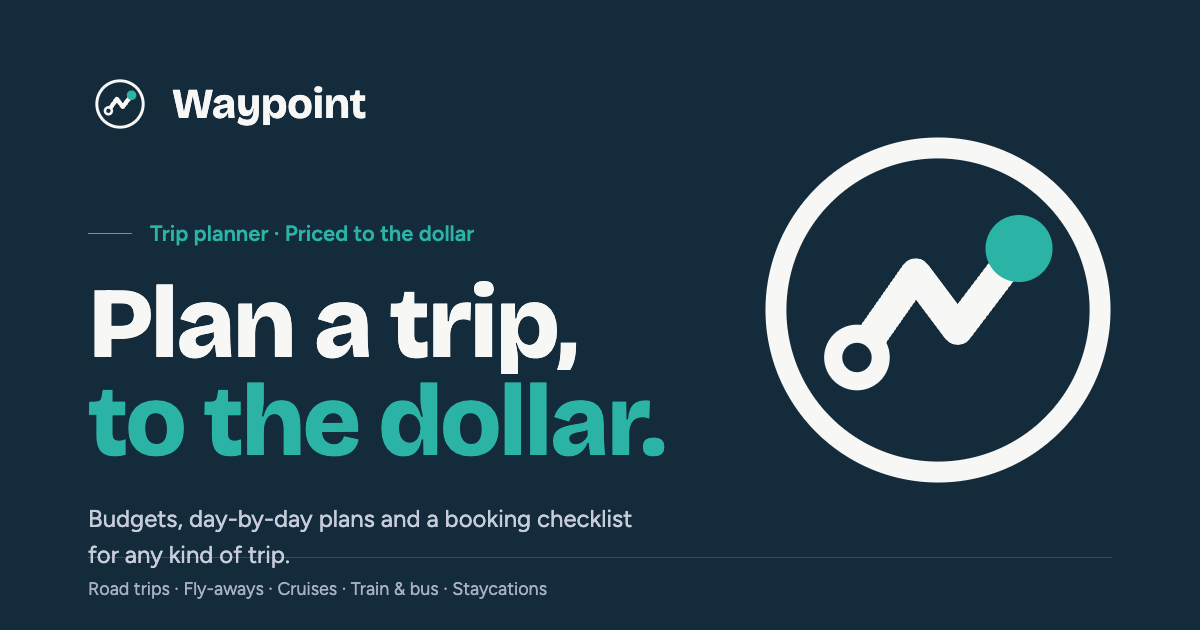
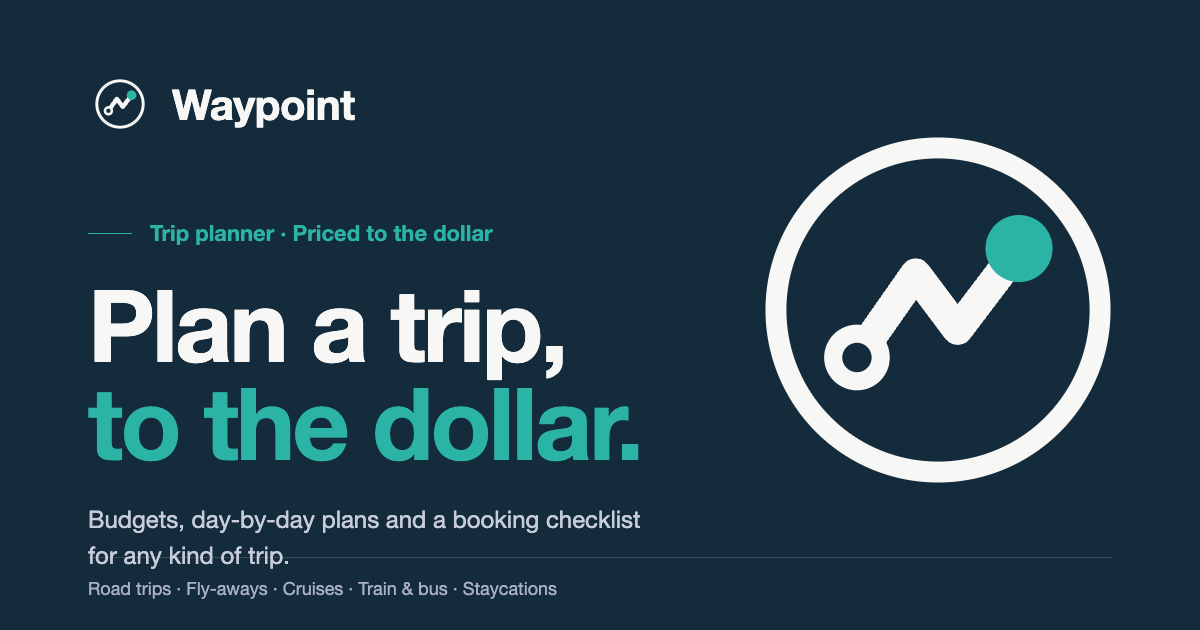
System font (no web fonts) and real-product tiles: dark budget tile, itinerary with route art, booking checklist (#79)
- Fonts: -apple-system stack, semibold headlines; Figtree/Bricolage removed (nothing to download)
- Plan page: mint hero, gallery, then three tiles drawn from the trip on screen
- Route art dot is teal; orange is gone
- Axe 0 findings; CLS 0.001; LCP 0.19s desktop, 0.68s throttled phone

diff --git a/src/components/app/plan/ProductTiles.tsx b/src/components/app/plan/ProductTiles.tsx
@@ -1,0 +1,129 @@
+import { Link } from "@tanstack/react-router";
+import { useMemo } from "react";
+
+import { CATEGORY_COLOR_VAR } from "@/components/app/bits";
+import { RouteMap } from "@/components/app/Illustrations";
+import { bookingPlan } from "@/lib/booking";
+import { CATEGORY_LABELS, categoriesFor, formatMoney } from "@/lib/budget";
+import { clock, scheduleDay } from "@/lib/itinerary-schedule";
+import { useTrip } from "@/lib/trip-store";
+
+/**
+ * Three tiles that show the product itself: the budget, a day of the plan and the booking
+ * checklist, drawn from the trip on screen (the sample until the traveler plans their own).
+ * Nothing here is invented: every number and name is what the app computed for this trip.
+ */
+export function ProductTiles() {
+  const { trip, dest, shape, totals } = useTrip();
+  const cats = categoriesFor(trip.setup.tripType, trip.inputs.transportMode)
+    .map((c) => ({ c, v: totals.categories[c] }))
+    .filter((x) => x.v > 0)
+    .sort((a, b) => b.v - a.v);
+  const sum = cats.reduce((s, x) => s + x.v, 0) || 1;
+  const day = trip.itinerary?.days[0];
+  const stops = useMemo(() => (day ? scheduleDay(day.items).slice(0, 3) : []), [day]);
+  const items = useMemo(
+    () => bookingPlan(trip, dest, shape, totals, "", []).slice(0, 3),
+    [trip, dest, shape, totals],
+  );
+  const label = trip.isSample ? "Sample trip" : "Your trip";
+
+  return (
+    <section className="py-16 sm:py-24" aria-labelledby="tiles-title">
+      <div className="page-container">
+        <h2 id="tiles-title" className="title-display text-center text-large-title">
+          {label}: {dest.name}
+        </h2>
+        <div className="mt-12 grid gap-4 md:grid-cols-5">
+          {/* The budget: the dark tile. */}
+          <Link
+            to="/budget"
+            className="group pressable rounded-3xl bg-ink p-8 text-ink-foreground md:col-span-3"
+          >
+            <p className="text-footnote opacity-80">Budget</p>
+            <p className="title-display mt-6 text-display">
+              {totals.overBudget ? "−" : ""}
+              {formatMoney(Math.abs(totals.remaining))}
+            </p>
+            <p className="mt-2 text-headline font-normal opacity-90">
+              {totals.overBudget ? "over your spending money" : "left to spend"}
+            </p>
+            <p className="mt-1 text-footnote opacity-70">
+              {formatMoney(totals.planned)} planned of {formatMoney(totals.spendable)} · emergency
+              fund of {formatMoney(totals.emergencyFund)} kept aside
+            </p>
+            <div className="mt-8 flex h-3 overflow-hidden rounded-full bg-white/15">
+              {cats.map((x) => (
+                <span
+                  key={x.c}
+                  title={`${CATEGORY_LABELS[x.c]} ${formatMoney(x.v)}`}
+                  style={{ width: `${(x.v / sum) * 100}%`, background: CATEGORY_COLOR_VAR[x.c] }}
+                />
+              ))}
+            </div>
+            <ul className="mt-6 grid gap-x-8 gap-y-2 sm:grid-cols-2">
+              {cats.slice(0, 4).map((x) => (
+                <li key={x.c} className="flex items-center gap-2 text-footnote">
+                  <span
+                    aria-hidden
+                    className="size-2 rounded-full"
+                    style={{ background: CATEGORY_COLOR_VAR[x.c] }}
+                  />
+                  <span className="flex-1 opacity-90">{CATEGORY_LABELS[x.c]}</span>
+                  <span className="tabular">{formatMoney(x.v)}</span>
+                </li>
+              ))}
+            </ul>
+            <span className="link-chevron mt-8 inline-block text-footnote !text-ink-foreground">
+              Open the budget
+            </span>
+          </Link>
+
+          {/* A day of the plan, with the route drawn behind it. */}
+          <Link
+            to="/itinerary"
+            className="group pressable relative overflow-hidden rounded-3xl bg-card p-8 md:col-span-2"
+          >
+            <RouteMap className="pointer-events-none absolute top-0 right-0 w-72 opacity-80" />
+            <div className="relative mt-44">
+              <p className="text-footnote text-muted-foreground">Itinerary</p>
+              <p className="title-display mt-2 text-title-1">
+                {day ? `Day 1: ${day.title}` : "Day by day"}
+              </p>
+              <ol className="mt-4 divide-y divide-separator">
+                {stops.map((s) => (
+                  <li key={s.item.id} className="py-2">
+                    <p className="tabular text-caption text-muted-foreground">
+                      {clock(s.start)} to {clock(s.end)}
+                    </p>
+                    <p className="text-footnote font-semibold">{s.item.name}</p>
+                  </li>
+                ))}
+              </ol>
+              <span className="link-chevron mt-4 inline-block text-footnote">
+                Open the itinerary
+              </span>
+            </div>
+          </Link>
+
+          {/* What to book. */}
+          <Link to="/book" className="group pressable rounded-3xl bg-secondary p-8 md:col-span-5">
+            <p className="text-footnote text-muted-foreground">Booking checklist</p>
+            <p className="title-display mt-2 text-title-1">What to book, in order</p>
+            <ul className="mt-6 grid gap-6 sm:grid-cols-3">
+              {items.map((i) => (
+                <li key={i.key} className="border-t border-separator pt-4">
+                  <p className="text-headline font-semibold">{i.title}</p>
+                  <p className="mt-1 text-footnote text-muted-foreground">
+                    {i.budget > 0 ? `${formatMoney(i.budget)} budgeted` : "Not in the budget"}
+                  </p>
+                </li>
+              ))}
+            </ul>
+            <span className="link-chevron mt-6 inline-block text-footnote">Open the checklist</span>
+          </Link>
+        </div>
+      </div>
+    </section>
+  );
+}

diff --git a/src/styles.css b/src/styles.css
@@ -1,34 +1,15 @@
 @import "tailwindcss" source(none);
 @source "../src";
 @import "tw-animate-css";
-/* Two self-hosted faces (OFL): Figtree for text, Bricolage Grotesque for headlines. */
-@import "@fontsource-variable/figtree";
-@import "@fontsource-variable/bricolage-grotesque";
-
-/* Fallbacks sized to the web fonts' measured widths, so the swap never reflows the headline. */
-@font-face {
-  font-family: "Figtree Fallback";
-  font-style: normal;
-  font-weight: 100 900;
-  src: local("Arial");
-  size-adjust: 104%;
-}
-@font-face {
-  font-family: "Bricolage Fallback";
-  font-style: normal;
-  font-weight: 100 900;
-  src: local("Arial");
-  size-adjust: 100%;
-}
+/* No web fonts: the system face (San Francisco on Apple devices, Segoe UI on Windows, Roboto on Android). */
 
 @custom-variant dark (&:where(.dark, .dark *));
 
 /*
  * Waypoint design system: the ARG Core editorial language, with apple.com's craft.
- * - Type: Bricolage Grotesque for headlines, Figtree for everything else. Regular body at 16px or more, sentence-case labels.
+ * - Type: the system face, as apple.com does (San Francisco on Apple devices). Semibold headlines, regular body at 16px or more, sentence-case labels.
  * - Color: deep navy #142B3B (text, dark surfaces), ocean teal #0F766E (primary actions, links), warm
- *   ivory #F7F7F5 canvas with white surfaces, soft mint #EEF4F2 support fills, coral #E87952 only in
- *   route art; sage for success and confirmed states.
+ *   ivory #F7F7F5 canvas with white surfaces, soft mint #EEF4F2 support fills, the route art in teal; sage for success and confirmed states.
  * - Shape: sharp 4px surfaces, pill buttons, 8px fields.
  * - Motion: exponential ease-out, one authored moment per screen, springs for direct manipulation.
  * - Space: an 8px grid. All colors are oklch tokens; components use semantic classes only.
@@ -36,10 +17,11 @@
 
 @theme inline {
   --font-sans:
-    "Figtree Variable", "Figtree", "Figtree Fallback", ui-sans-serif, system-ui, sans-serif;
+    -apple-system, BlinkMacSystemFont, "SF Pro Text", "Segoe UI", "Helvetica Neue", Roboto, Arial,
+    sans-serif;
   --font-display:
-    "Bricolage Grotesque Variable", "Bricolage Grotesque", "Bricolage Fallback", ui-sans-serif,
-    system-ui, sans-serif;
+    -apple-system, BlinkMacSystemFont, "SF Pro Display", "Segoe UI Variable Display", "Segoe UI",
+    "Helvetica Neue", Roboto, Arial, sans-serif;
   --font-mono: ui-monospace, "SF Mono", Menlo, monospace;
 
   /*
@@ -49,23 +31,23 @@
   --text-stat: clamp(1.75rem, 1rem + 2vw, 2.75rem);
   --text-stat--line-height: 1.05;
   --text-stat--letter-spacing: -0.03em;
-  --text-stat--font-weight: 650;
+  --text-stat--font-weight: 600;
   --text-display: clamp(2.75rem, 1.6rem + 5vw, 5.25rem);
   --text-display--line-height: 1.04;
   --text-display--letter-spacing: -0.035em;
-  --text-display--font-weight: 650;
+  --text-display--font-weight: 600;
   --text-large-title: clamp(1.875rem, 1.3rem + 2.2vw, 2.75rem);
   --text-large-title--line-height: 1.1;
   --text-large-title--letter-spacing: -0.024em;
-  --text-large-title--font-weight: 700;
+  --text-large-title--font-weight: 600;
   --text-title-1: 1.75rem;
   --text-title-1--line-height: 1.12;
   --text-title-1--letter-spacing: -0.016em;
-  --text-title-1--font-weight: 650;
+  --text-title-1--font-weight: 600;
   --text-title-2: 1.25rem;
   --text-title-2--line-height: 1.18;
   --text-title-2--letter-spacing: -0.012em;
-  --text-title-2--font-weight: 650;
+  --text-title-2--font-weight: 600;
   --text-headline: 1.0625rem;
   --text-headline--line-height: 1.3;
   --text-headline--letter-spacing: -0.012em;
@@ -377,7 +359,7 @@
   --input: rgb(20 43 59 / 0.38);
   --ring: #0f766e;
   /* Brand coral (#FF6B4A): the logo's destination dot. Used sparingly for "you are here / next" cues. */
-  --brand-coral: #e87952;
+  --brand-coral: #2bb3a5;
   /* Coral as small text (step numbers): darker so it reads at AA contrast on paper. */
   --coral-text: #b4472a;
   /* Solid emphasis surface (primary call to action, the balance card). */
@@ -489,7 +471,7 @@
   --separator: rgb(241 244 243 / 0.11);
   --input: rgb(241 244 243 / 0.32);
   --ring: #5fcfc2;
-  --brand-coral: #e87952;
+  --brand-coral: #2bb3a5;
   --coral-text: #f0a58c;
   --ink: #f1f4f3;
   --ink-foreground: #0e1f2b;
@@ -679,11 +661,11 @@
   }
 }
 
-/* Titles: Bricolage Grotesque, tightened as it grows. <em> is plain: no colored last word. */
+/* Titles: the system face, semibold, tightened as it grows. <em> is plain: no colored last word. */
 @utility title-display {
   font-family: var(--font-display);
-  --tw-font-weight: 650;
-  font-weight: 650;
+  --tw-font-weight: 600;
+  font-weight: 600;
   letter-spacing: -0.028em;
   text-wrap: balance;
   & em {
@@ -692,7 +674,7 @@
   }
 }
 
-/* Amounts that matter: bold Figtree with tabular figures. */
+/* Amounts that matter: bold with tabular figures. */
 @utility money-display {
   font-family: var(--font-sans);
   font-weight: 700;

diff --git a/src/routes/__root.tsx b/src/routes/__root.tsx
@@ -11,8 +11,6 @@ import {
 import type { ReactNode } from "react";
 
 import appCss from "../styles.css?url";
-import figtree from "@fontsource-variable/figtree/files/figtree-latin-wght-normal.woff2?url";
-import bricolage from "@fontsource-variable/bricolage-grotesque/files/bricolage-grotesque-latin-wght-normal.woff2?url";
 import { AppShell } from "@/components/app/AppShell";
 import { Button } from "@/components/ui/button";
 import { Toaster } from "@/components/ui/sonner";
@@ -129,14 +127,6 @@ export const Route = createRootRouteWithContext<{ queryClient: QueryClient }>()(
       { rel: "icon", href: "/favicon.svg", type: "image/svg+xml" },
       { rel: "apple-touch-icon", href: "/apple-touch-icon.png" },
       { rel: "manifest", href: "/site.webmanifest" },
-      // The one face, fetched early so the headline never swaps late.
-      ...[figtree, bricolage].map((href) => ({
-        rel: "preload",
-        href,
-        as: "font",
-        type: "font/woff2",
-        crossOrigin: "anonymous" as const,
-      })),
       // Photos and their lookups come from Wikipedia and Wikimedia: open those connections early.
       { rel: "preconnect", href: "https://en.wikipedia.org", crossOrigin: "anonymous" },
       { rel: "preconnect", href: "https://thumb.wikimedia.org" },

diff --git a/src/test/design-system.test.ts b/src/test/design-system.test.ts
@@ -196,14 +196,12 @@ describe("no template tells", () => {
     expect(find(/<img\b/g, (p) => p.endsWith("Photo.tsx"))).toEqual([]);
   });
 
-  it("sets headlines in Bricolage Grotesque and text in Figtree, self-hosted, with no serif or mono labels", () => {
+  it("uses the system face, with no web fonts to download, no serif and no mono labels", () => {
     const css = readFileSync(join(SRC, "styles.css"), "utf8");
     const stack = (name: string) => css.match(new RegExp(`--font-${name}:([^;]+);`))?.[1] ?? "";
-    expect(stack("sans")).toMatch(/^\s*"Figtree Variable"/);
-    expect(stack("display")).toMatch(/^\s*"Bricolage Grotesque Variable"/);
-    expect(css).toContain("@fontsource-variable/figtree");
-    expect(css).toContain("@fontsource-variable/bricolage-grotesque");
-    expect(css).not.toMatch(/fraunces|jetbrains|inter variable/i);
+    expect(stack("sans")).toMatch(/^\s*-apple-system/);
+    expect(stack("display")).toMatch(/^\s*-apple-system/);
+    expect(css).not.toMatch(/@fontsource|fraunces|jetbrains|inter variable|figtree|bricolage/i);
     // Small labels are plain sentence case: no uppercase, tracked-out caps.
     expect(css.match(/@utility label-mono \{[^}]*\}/)?.[0] ?? "").not.toMatch(/uppercase/);
   });

diff --git a/src/routes/index.tsx b/src/routes/index.tsx
@@ -11,6 +11,7 @@ import { CoveragePicker } from "@/components/app/plan/CoveragePicker";
 import { OriginField } from "@/components/app/plan/OriginField";
 import { StylePicker } from "@/components/app/plan/StylePicker";
 import { Inspiration } from "@/components/app/plan/Inspiration";
+import { ProductTiles } from "@/components/app/plan/ProductTiles";
 import { Faq } from "@/components/app/landing";
 import { StopsPicker } from "@/components/app/plan/StopsPicker";
 import { formatDateRange } from "@/components/app/TripHeader";
@@ -358,7 +359,7 @@ function Welcome() {
         </div>
       )}
       {/* The hero, after apple.com: one big line, one short sentence, the planner, then the places. */}
-      <section>
+      <section className="bg-secondary">
         <div className="page-container pt-12 pb-16 text-center sm:pt-20 sm:pb-24 max-sm:min-h-[calc(100dvh-9rem)]">
           <h1 className="title-display mx-auto max-w-4xl text-display">
             Plan a trip around your budget
@@ -398,6 +399,8 @@ function Welcome() {
           />
         </div>
       </section>
+
+      <ProductTiles />
 
       <div className="page-container py-16 sm:py-24">
         <div className="layout-main-aside lg:gap-y-8">

diff --git a/AGENTS.md b/AGENTS.md
@@ -72,6 +72,7 @@
 - **Partners and commissions (groundwork only)**: `src/lib/partners/config.ts` decorates outbound booking links (`outboundLink`) only for a partner listed in the `VITE_AFFILIATE_PARTNERS` build value (unset today, so every link is plain and the Book page says Waypoint earns nothing). No IDs, parameter names or partners are baked in; values are validated; only https links to a matching host are tagged, with `rel="sponsored"`. `affiliateDisclosure()` is the one source of the page's wording. `src/lib/partners/commission.ts` is bookkeeping with one rule: money is earned only when a partner reported the transaction (has its own reference) and approved or paid it; estimates and booking value never count. Not built, and each needs an approved partner first: click tracking (needs consent and the partner's terms), a commissions table and importer, reports. Do not add revenue claims to the UI.
 - **One-day edits** (itinerary, signed-in travelers; AI): `planWithAi(text, { dayIndex })` asks for the whole plan with "Change only Day N" but lands only that day through `tripActions.setDayFor` (`replaceDay` in `itinerary-edit.ts`: every other day stays the same object, the traveler's own stops on that day are kept once with fresh ids), with a toast showing the day's per-person cost before and after and an Undo (`restoreDay`). A request that names exactly one day ("make day 2 cheaper", `parseDayNumber`) typed in Refine goes the same way; several days or none go to the whole plan. Trips over 14 days (`SINGLE_REQUEST_DAYS`) don't support day edits yet. New suggestions stay unverified; the UI says so. The AI path itself is untested against the live model (needs a signed-in session and the Gemini key).
 - **What saved preferences really do (audit 2026-11-11)**: home city and home airport drive the start city, live price searches and booking links; travel style, usual group size and interests are applied to the untouched sample trip for signed-in travelers (`personalizeSample(home, prefs)`, via `usePersonalizedSample`), so new plans start from them; memberships now appear as "perks you may have" reminders on the Booking checklist (`src/lib/perks.ts`: general, hedged tips that say to check and compare; no savings are computed, no card numbers are ever stored; a test requires a rule for every membership the Profile offers); the usual way to get there is saved but not used yet, and the Profile page says so. Before adding any profile field, wire it to something real or label it "not used yet". Dietary and accessibility needs are saved in `traveler_preferences` (`dietary`, `accessibility`; migration 0003, applied to production 2026-11-12; fixed vocabularies in `src/lib/needs.ts` enforced by CHECK constraints) and their only effect is the AI planner request (`needsFacts` in `tripFacts`): the profile and the Privacy page say they are sent to Gemini, never in share links, never verified, deleted with the account.
+- **Type and tiles (2026-11-12, the newest word; supersedes the Revamp and Apple pass bullets on fonts)**: the owner found Bricolage/Figtree ugly, so there are no web fonts: `--font-sans` and `--font-display` are the system stack (San Francisco on Apple devices, Segoe UI, Roboto), headlines semibold 600 with tight tracking. Nothing to download or preload, no layout shift from a late font. "Too minimal" was answered with real product, not decoration: the Plan page has a mint hero, the gallery, then `ProductTiles` (a dark budget tile with the trip's real numbers and category bar, an itinerary tile for day 1 with the brand route art, a booking checklist tile), all read from the trip on screen (the sample until they plan their own). The route art's dot is teal (`--brand-coral` is now teal); orange is not used anywhere.
 - **Apple pass (2026-11-12; the newest word on the look: where older design bullets below disagree, this one and the Revamp bullet win)**: the Plan page follows apple.com's composition: one large centered headline (`text-display`, weight 650, tight tracking), one short sentence, the planner bar, then one gallery of trip ideas (`Inspiration`: 320px portrait photo cards on `bg-card`, real places from the traveler's start, 500px photos). There is no second photo block: the hero tiles were removed because they repeated the gallery. Sections alternate between the page tone and `bg-card`, with centered section heads. Cards are flat tiles (`surface-card`: fill and 20px corners, no outline); `--radius-3xl` is 28px. The nav bar is 48px with quiet links and one filled "Plan a trip" button. No marketing copy: no how-it-works, no footer blurb, no photo captions (Wikipedia/Wikimedia credit lives in the Credits section of the Terms, linked from the footer). Wikimedia photos must be requested at served widths only (250/330/500/960/1280/1920): always go through `thumbAt`, which rounds up (any other width is an HTTP 400 and the photo silently disappears).
 - **Revamp (2026-11-12; supersedes the Plan page, type and "Look" bullets where they differ)**: the owner found the site looked AI-made (layout, text and font). Type is now Bricolage Grotesque for headlines (`--font-display`, `title-display`) and Figtree for text and controls (both self-hosted, preloaded); Inter is gone. Headlines are one plain color: no accent-colored last word (`title-display em` is inherited color), no "X, not Y" taglines, no numbered sections, no stat strips. The Plan page is the planner first: a plain headline, the assistant bar, trips from the traveler's start, the manual form ("Plan your trip"), a short "How it works" and the FAQ; the old marketing sections (six tools, the math, trip types, closing banner, "at a glance" sheet, ticker) were removed. Write headings as plain nouns or verbs in sentence case. CLS is 0.002 and LCP 0.3s desktop / 0.8s throttled phone on the Plan page.
 - **Group travel, phase 1 (viewers only; design in `docs/design/group-travel.md`)**: a saved trip's owner makes single-use invite links (`/join#<64 hex token>`, 7 days, max 10 people, viewer role only; the database stores only the SHA-256 hash) from the Trips page "People" panel (`TripPeople`). A person who opens the link signs in, sees what it is and chooses to join (optional nickname, no email shown), then reads the plan at `/shared-trip/$id`. Members never read `trips`: they call `get_shared_trip`, which removes bookings, spending, budget, passport, start point, prices and the roadTrip data on the server (`strip_private_trip`; keep it in step with `sharedTripPayload`). Everything is in migration 0004 (applied to production 2026-11-12 after a 16-check rollback test on a scratch project: `drizzle/tests/0004_trip_members.test.sql`); client calls are in `src/lib/members.ts`. Account deletion removes memberships and anonymizes accepted invites. Editors, voting and shared costs are later phases (invites for `editor` are refused by the database until then).
